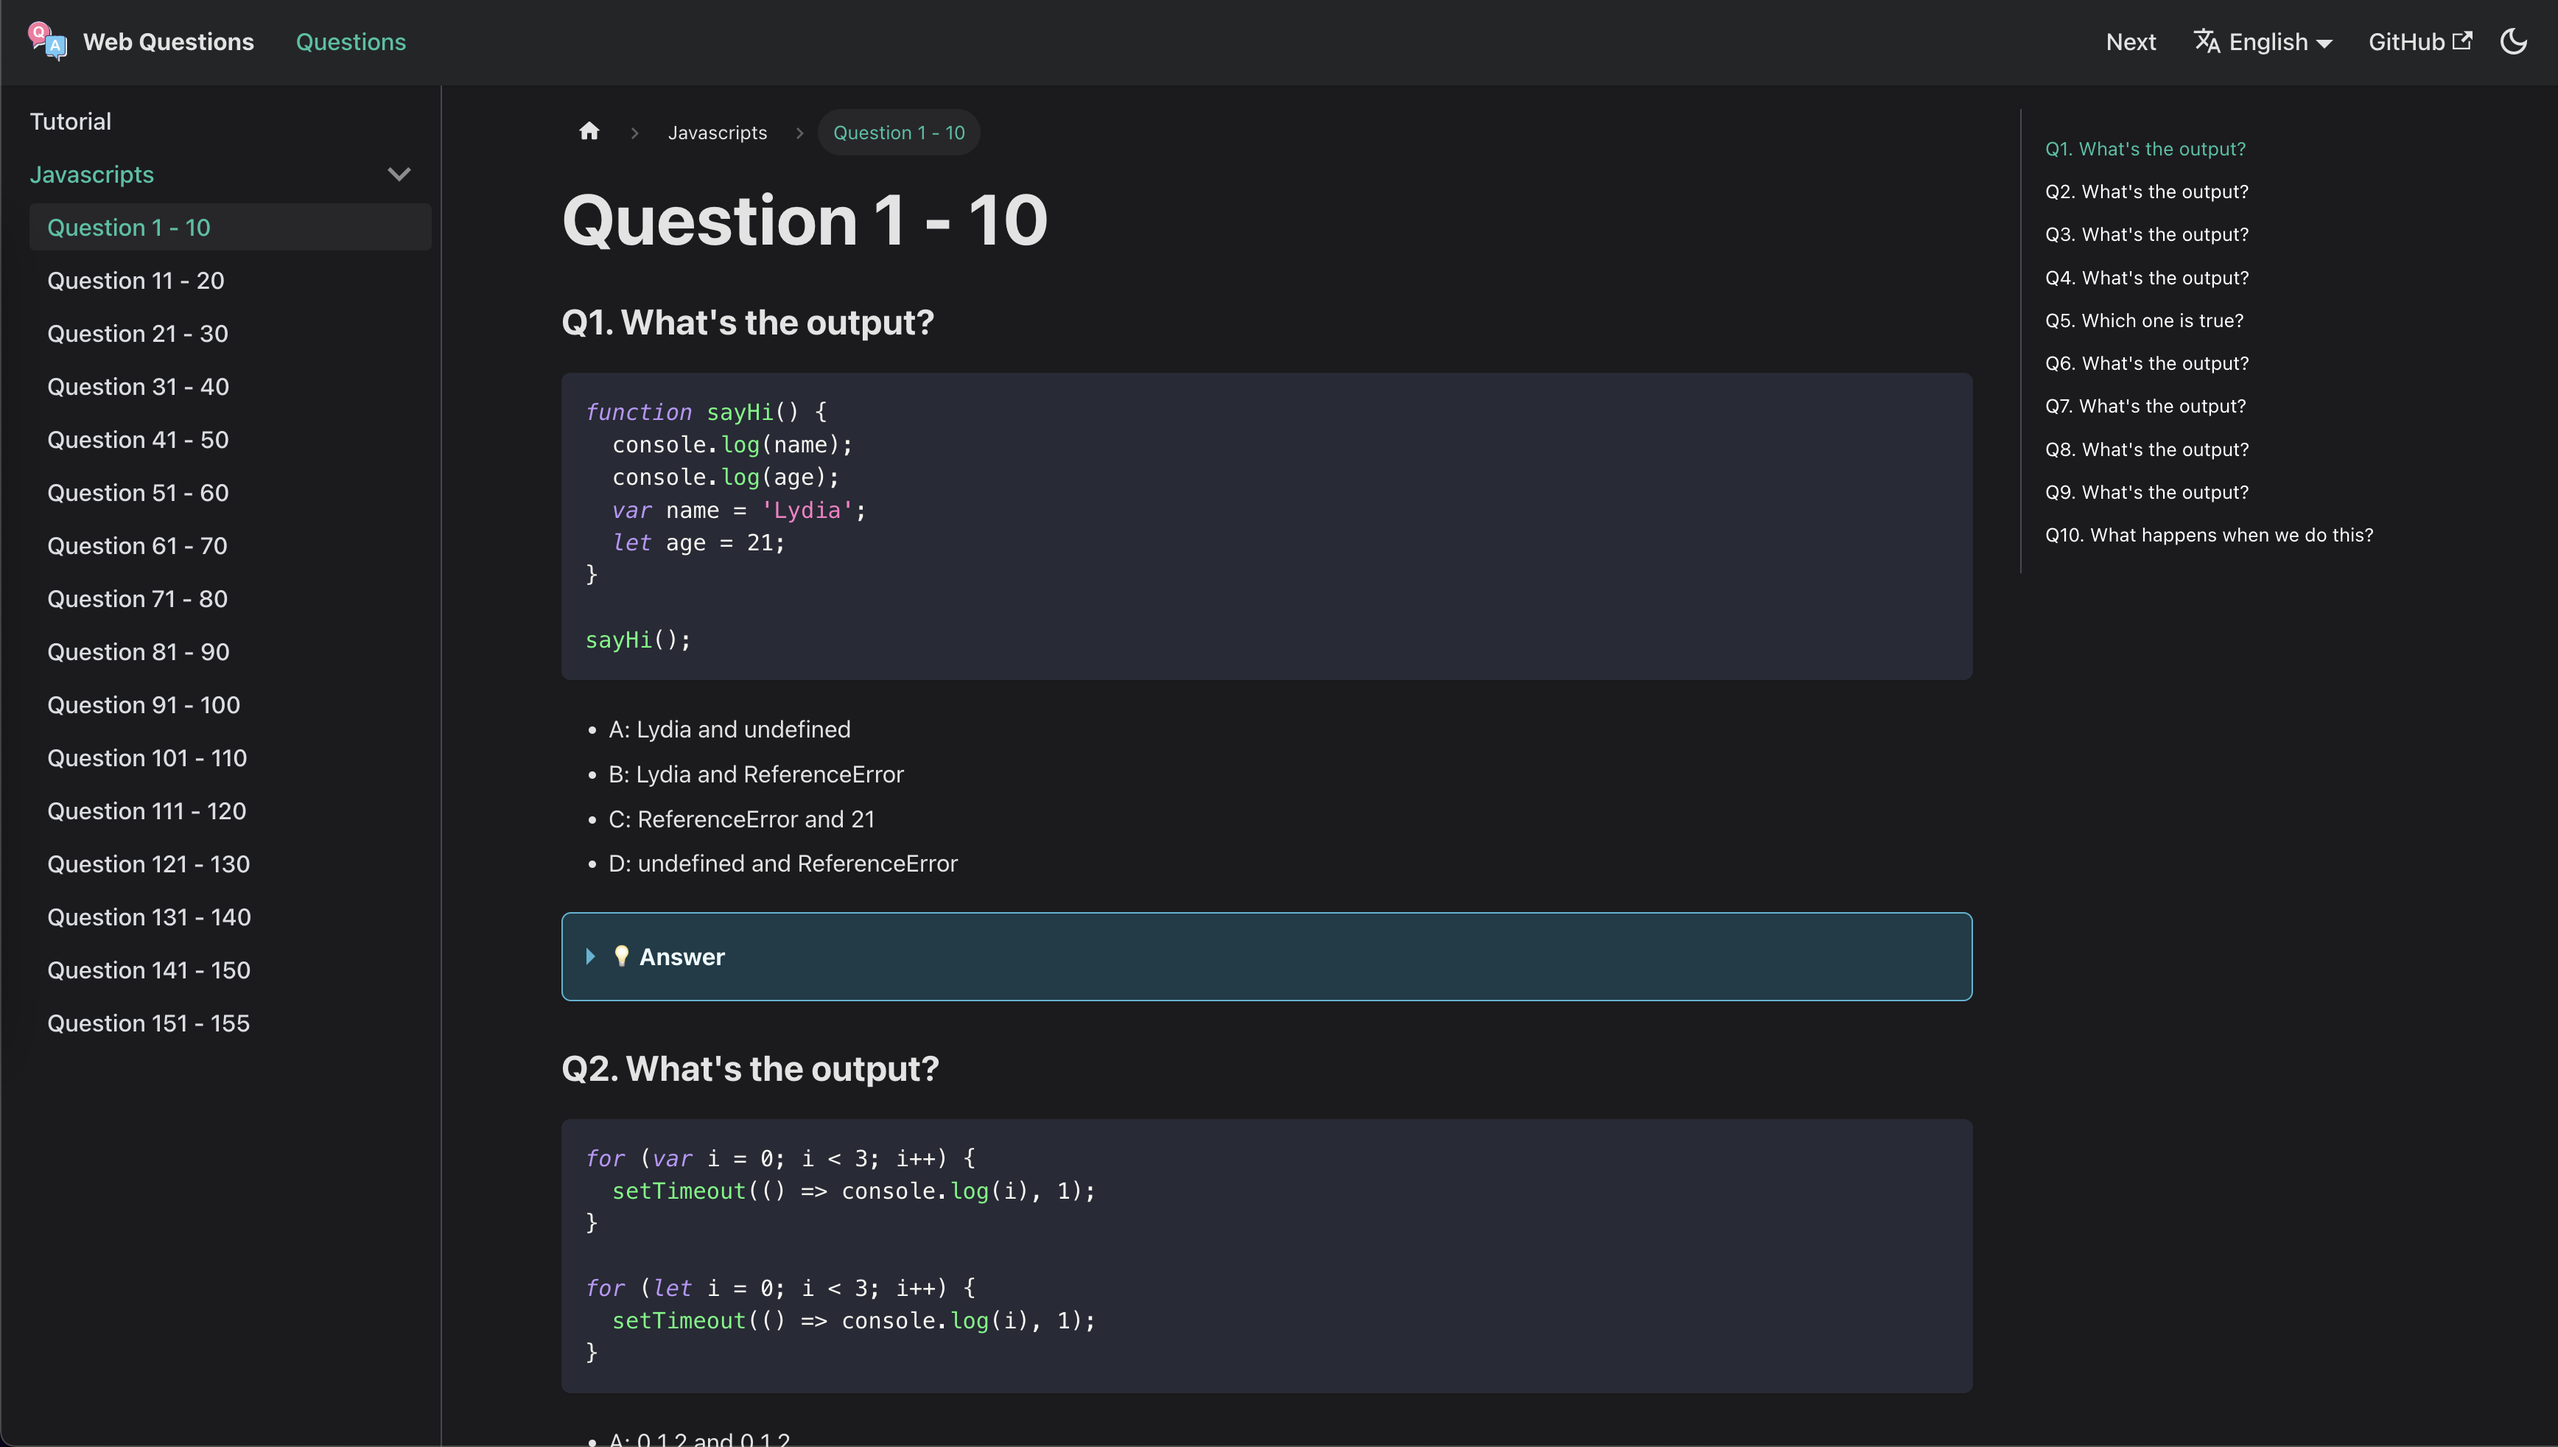
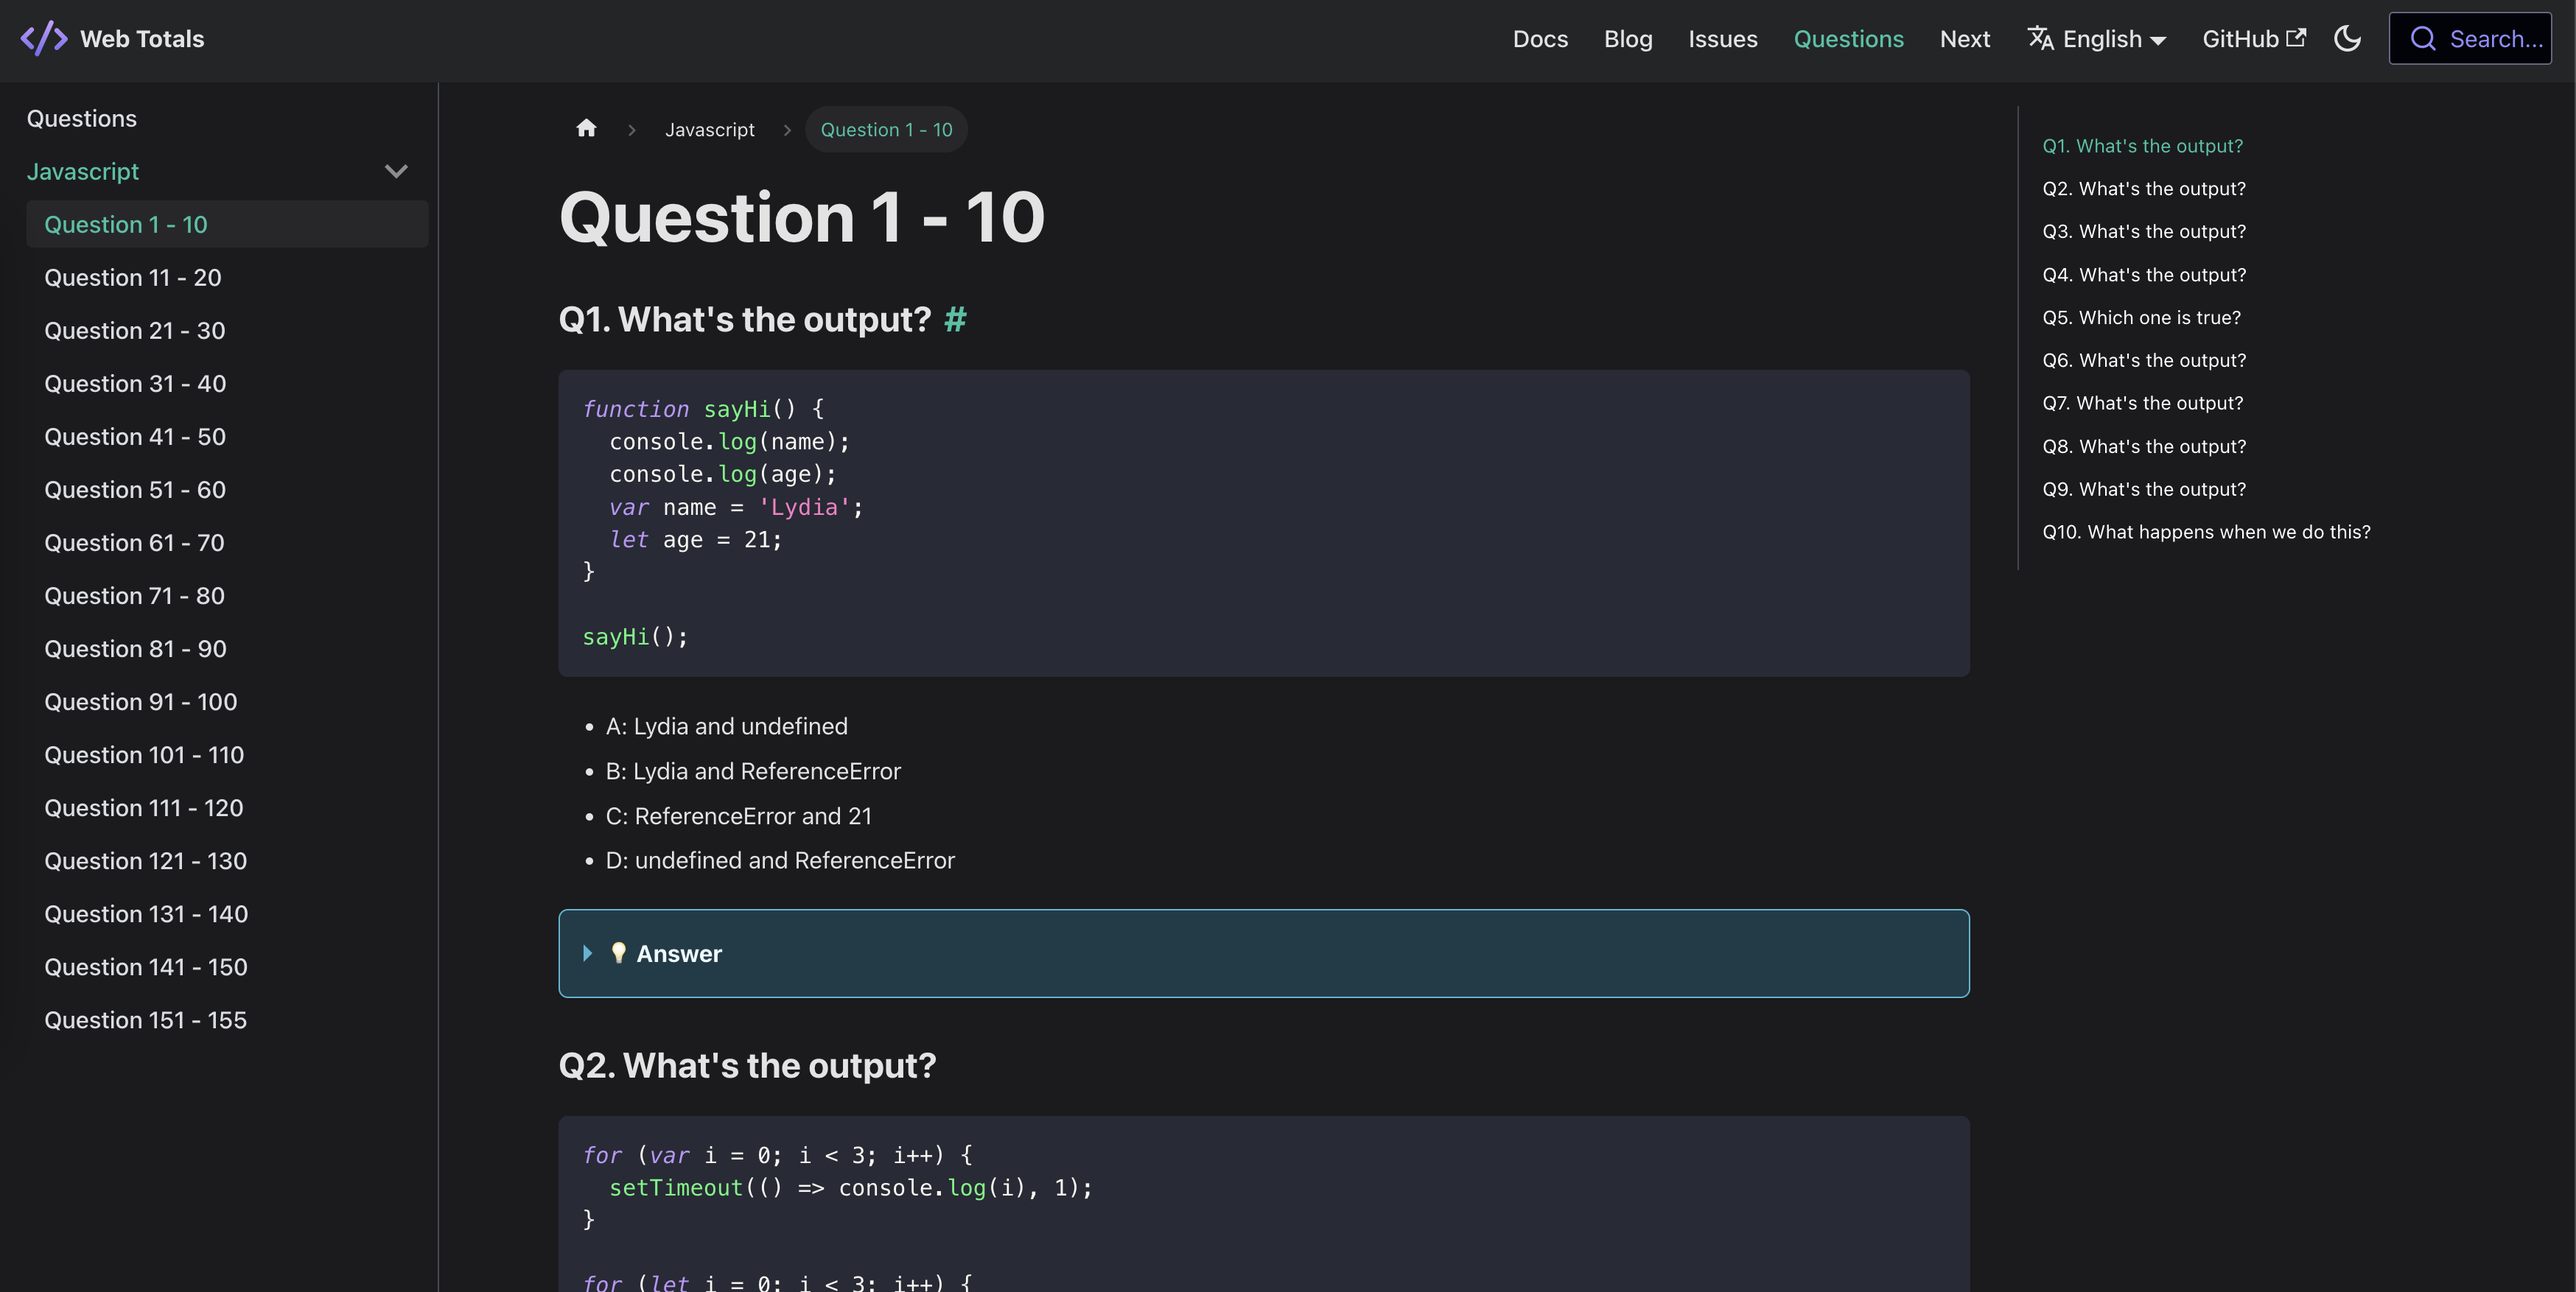
update

diff --git a/src/components/Section/Portfolio/Portfolio.tsx b/src/components/Section/Portfolio/Portfolio.tsx
@@ -10,11 +10,11 @@ interface IProps {
 
 const PROJECTS = [
   {
-    name: 'Web questions',
+    name: 'Web totals',
     description: 'Build a site share all about web development',
     stack: 'Reactjs, Docusaurus, markdown',
-    linkDemo: 'https://web-questions.vercel.app/',
-    source: 'https://github.com/hunghg255/web-questions',
+    linkDemo: 'https://web-totals.vercel.app/',
+    source: 'https://github.com/hunghg255/web-totals',
     image: '/images/projects/web-question.png',
   },
   {
